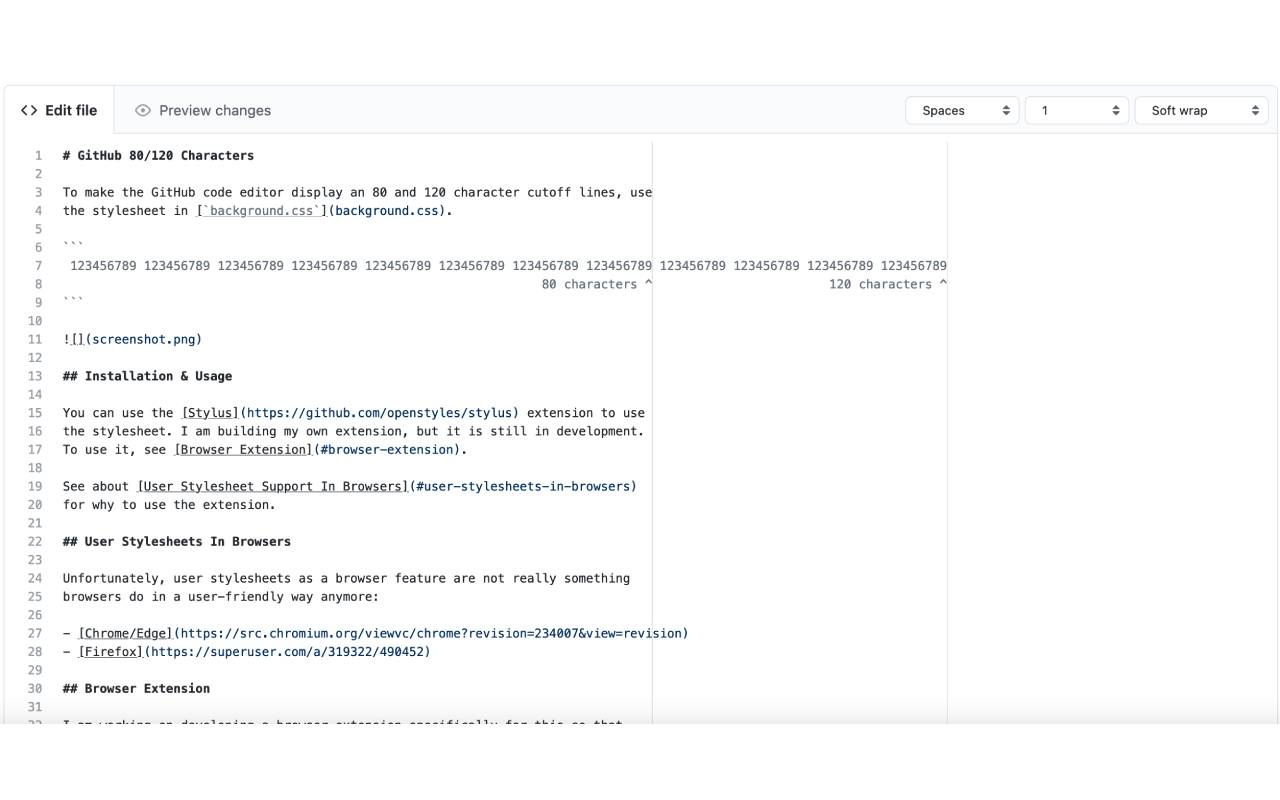
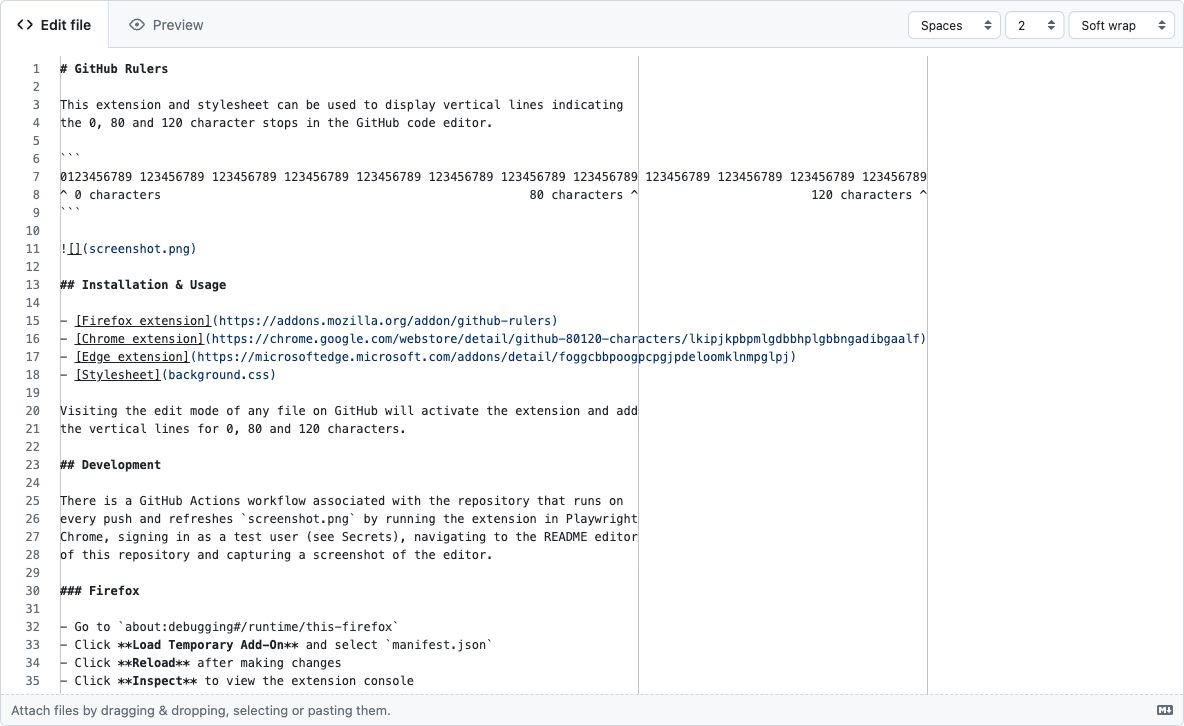
Update the workflow to generate the JPG and add a fork for the Global Navigation feature
The CSS can now detect whether the Global Navigation feature is on or off and adjust the shift.

diff --git a/background.css b/background.css
@@ -1,16 +1,31 @@
-/* Hide the "Enter file contents here" placeholder */
+/* Hide the "Enter file contents here" placeholder shown in an empty editor */
+/* Note that it appears shifted relative to the text and crossed the 0 line */
+/* Note that it only appears with the Global Navigation preview feature on */
 .CodeMirror-placeholder {
   display: none;
 }
 
+/* Shift by 2 characters to account for GitHub CodeMirror editor padding */
+/* Start with the values for when the Global Navigation preview feature is on */
+:root {
+  --shift: 2;
+}
+
+/* Shift by 2 characters to account for GitHub CodeMirror editor padding */
+/* Reset to the values for when the Global Navigation preview feature is off */
+/* Note that .CodeMirror-wrap only appears in the DOM with this feature off */
+.CodeMirror-wrap {
+  --shift: .5;
+}
+
 .CodeMirror-lines {
-  /* Shift by 2 characters to account for GitHub CodeMirror editor padding */
-  --0: 2ch;
-  --80: 82ch;
-  --120: 122ch;
+  --0: calc(var(--shift) * 1ch + 0ch);
+  --80: calc(var(--shift) * 1ch + 80ch);
+  --120: calc(var(--shift) * 1ch + 120ch);
   --color: silver;
 
-  background: linear-gradient(to right,
+  /* Extract to a variable to be able to read using JavaScript in `test.html` */
+  --background: linear-gradient(to right,
       /* Render a line at 0 characters */
       transparent var(--0),
       var(--color) calc(var(--0) + 1px),
@@ -26,7 +41,8 @@
       var(--color) calc(var(--120) + 1px),
       transparent 0,
 
-      transparent)
-    /* Override GitHub's own stylesheet */
-    !important;
+      transparent);
+
+  /* Override GitHub's own stylesheet with the `!important` */
+  background: var(--background) !important;
 }

diff --git a/test.html b/test.html
@@ -1,0 +1,30 @@
+<!DOCTYPE html>
+<html lang="en">
+  <head>
+    <meta charset="utf-8" />
+    <title>Test</title>
+    <link rel="stylesheet" href="background.css" />
+    <style>
+      /* Make the color pop more to make it easier to spot while debugging */
+      .CodeMirror-lines {
+        --color: red !important;
+        font-family: monospace;
+        white-space: pre;
+      }
+
+    </style>
+    <script type="module">
+      const element = document.querySelector('.CodeMirror-lines');
+      element.textContent = getComputedStyle(element).getPropertyValue('--background');
+    </script>
+  </head>
+  <body>
+    <!-- Toggle the .CodeMirror-wrap class (add/remove `x` somewhere in it) to test the conditional logic -->
+    <!-- Check the browser dev tools and see what CSS variable values are -->
+    <div class="CodeMirror-editor CodeMirror-wrap">
+      <div class="CodeMirror-lines">
+        TEST
+      </div>
+    </div>
+  </body>
+</html>

diff --git a/.github/workflows/index.js b/.github/workflows/index.js
@@ -29,10 +29,11 @@ await page.type('#password', password);
 await page.click('input[type="submit"]');
 
 const { token } = node2fa.generateToken(secret);
-await page.type('#totp', token);
+await page.type('#app_totp', token);
 
 await page.goto('https://github.com/TomasHubelbauer/github-80-120-characters/edit/main/readme.md');
 await page.locator('.file').screenshot({ path: '../../screenshot.png' });
+await page.locator('.file').screenshot({ path: '../../screenshot.jpg' });
 await browser.close();
 
 await fs.promises.rm('user-data-dir', { recursive: true });

diff --git a/readme.md b/readme.md
@@ -27,6 +27,15 @@ every push and refreshes `screenshot.png` by running the extension in Playwright
 Chrome, signing in as a test user (see Secrets), navigating to the README editor
 of this repository and capturing a screenshot of the editor.
 
+### "Global Navigator" Preview Feature
+
+GitHub has a preview feature called *Global Navigation* which when on changes
+the spacing in the CodeMirror editor.
+The CSS of this extension detects the feature and adjusts the values if needed.
+
+`test.html` can be used to check that the CSS variable computations work as
+expected.
+
 ### Firefox
 
 - Go to `about:debugging#/runtime/this-firefox`
@@ -68,6 +77,10 @@ and also at using Playwright for Edge testing in the future.
 [Package](#packaging) and deploy to: https://partner.microsoft.com/dashboard/microsoftedge
 
 ### Packaging
+
+Regenerate `screenshot.png` and `screenshot.jpg` prior to publishing by going to
+`.github/workflows` and running `npm install` to install Playwright and Node-2FA
+and then `node . email password secret`.
 
 Prior to publishing the extension, an archive package must be made to upload to
 whichever browser extension store is being published to. To generate it, run:
